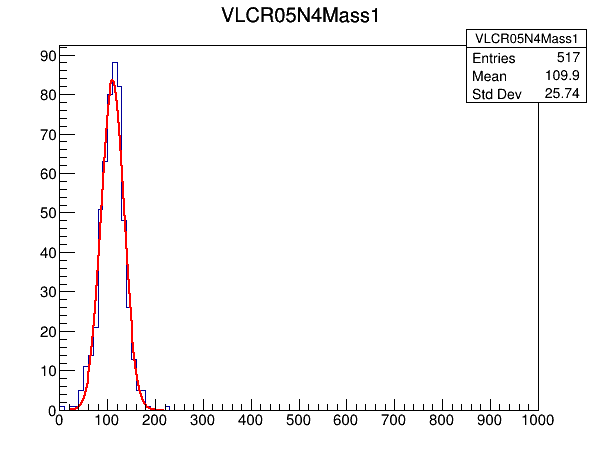
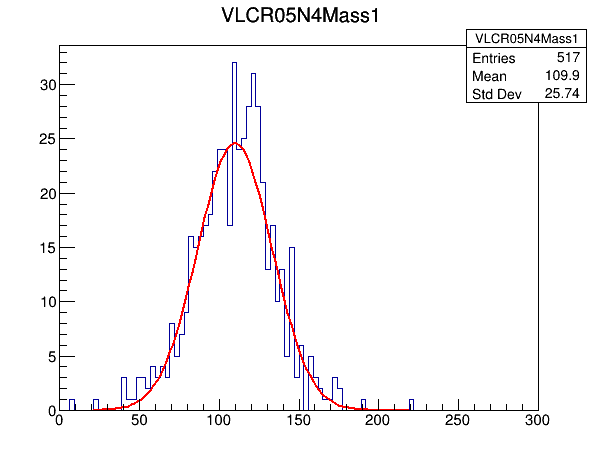
Update pairing up macro on anti-kt jet

diff --git a/Delphes/src/AnalyzeM.C b/Delphes/src/AnalyzeM.C
@@ -33,12 +33,20 @@ void AnalyzeM(const char *inputFile, const char *outputFile){
      TTree *tree_sig = (TTree*)file_sig->Get("Delphes");
      TTree *tree_output = new TTree("tree_output","Delphes");
 
+     cout << "Initiating..." <<endl; 
+
      TLeaf *VLCjetR05N4_size = tree_sig->GetLeaf("VLCjetR05N4_size");
      TLeaf *VLCjetR05N4_eta = tree_sig->GetLeaf("VLCjetR05N4.Eta");
      TLeaf *VLCjetR05N4_phi = tree_sig->GetLeaf("VLCjetR05N4.Phi");
      TLeaf *VLCjetR05N4_pt = tree_sig->GetLeaf("VLCjetR05N4.PT");
      TLeaf *VLCjetR05N4_mass = tree_sig->GetLeaf("VLCjetR05N4.Mass");
-
+     
+     TLeaf *AKTjet_size = tree_sig->GetLeaf("AKTjet_size");
+     TLeaf *AKTjet_eta = tree_sig->GetLeaf("AKTjet.Eta");
+     TLeaf *AKTjet_phi = tree_sig->GetLeaf("AKTjet.Phi");
+     TLeaf *AKTjet_pt = tree_sig->GetLeaf("AKTjet.PT");
+     TLeaf *AKTjet_mass = tree_sig->GetLeaf("AKTjet.Mass");
+ 
      TLeaf *GenJet_size = tree_sig->GetLeaf("GenJet_size");
      TLeaf *GenJet_eta = tree_sig->GetLeaf("GenJet.Eta");
      TLeaf *GenJet_phi = tree_sig->GetLeaf("GenJet.Phi");
@@ -47,11 +55,18 @@ void AnalyzeM(const char *inputFile, const char *outputFile){
 
      Int_t nEntries = tree_sig->GetEntries();
 
-     TH1D *VLCR05N4Mass1 = new TH1D("VLCR05N4Mass1", "VLCR05N4Mass1", 100 , 0, 1000); 
-     TH1D *VLCR05N4Mass2 = new TH1D("VLCR05N4Mass2", "VLCR05N4Mass2", 100 , 0, 1000); 
-     TH1D *GenMass2 = new TH1D("GenMass2", "GenMass2", 100 , 0, 1000); 
-     TH1D *VLCGenMass2Comp = new TH1D("VLCGenMass2Comp", "VLCGenMass2Comp", 100 , -3, 3); 
+     TH1D *VLCR05N4Mass1 = new TH1D("VLCR05N4Mass1", "VLCR05N4Mass1", 100 , 0, 300); 
+     TH1D *VLCR05N4Mass2 = new TH1D("VLCR05N4Mass2", "VLCR05N4Mass2", 100 , 0, 600); 
+     TH1D *GenVLCMass2 = new TH1D("GenVLCMass2", "GenVLCMass2", 100 , 0, 600); 
+     TH1D *VLCGenMass2Comp = new TH1D("VLCGenMass2Comp", "VLCGenMass2Comp", 100 , -1.5, 1.5); 
 
+     TH1D *AKTjetMass1 = new TH1D("AKTjetMass1", "AKTjetMass1", 100 , 0, 300); 
+     TH1D *AKTjetMass2 = new TH1D("AKTjetMass2", "AKTjetMass2", 100 , 0, 600); 
+     TH1D *GenAKTMass2 = new TH1D("GenAKTMass2", "GenAKTMass2", 100 , 0, 600); 
+     TH1D *AKTGenMass2Comp = new TH1D("AKTGenMass2Comp", "AKTGenMass2Comp", 100 , -1.5, 1.5); 
+     
+     TH1D *GenUncutMass2 = new TH1D("GenUncutMass2", "GenUncutMass2", 100 , 0, 600); 
+ 
      Double_t VLC1eta;
      Double_t VLC1phi;
      Double_t VLC1pt;
@@ -61,6 +76,17 @@ void AnalyzeM(const char *inputFile, const char *outputFile){
      Double_t VLC2pt;
      Double_t VLC2mass;
      Double_t VLCR05N4pairmass;
+  
+     Double_t AKT1eta;
+     Double_t AKT1phi;
+     Double_t AKT1pt;
+     Double_t AKT1mass;
+     Double_t AKT2eta;
+     Double_t AKT2phi;
+     Double_t AKT2pt;
+     Double_t AKT2mass;
+     Double_t AKTjetpairmass;
+         
      Double_t Gen1eta;
      Double_t Gen1phi;
      Double_t Gen2eta;
@@ -75,12 +101,16 @@ void AnalyzeM(const char *inputFile, const char *outputFile){
      Int_t pair2jet1entry;
      Int_t pair2jet2entry;
 
+     cout << "Running Pairing up Algo..." << endl;
+
      for(Long64_t entry=0; entry < nEntries; entry++){
 	 tree_sig->GetEntry(entry);
 	 tree_output->GetEntry(entry);
 	 VLCjetR05N4_size->GetBranch()->GetEntry(entry);
-         
+         AKTjet_size->GetBranch()->GetEntry(entry);
+
 	 Int_t nVLCjet = VLCjetR05N4_size->GetValue();
+	 Int_t nAKTjet = AKTjet_size->GetValue();
 	 Int_t nGenJet = GenJet_size->GetValue();
 
 	 VLCjetR05N4_phi->GetBranch()->GetEntry(entry);
@@ -88,14 +118,22 @@ void AnalyzeM(const char *inputFile, const char *outputFile){
 	 VLCjetR05N4_pt->GetBranch()->GetEntry(entry);
 	 VLCjetR05N4_mass->GetBranch()->GetEntry(entry);
 
+	 AKTjet_phi->GetBranch()->GetEntry(entry);
+	 AKTjet_phi->GetBranch()->GetEntry(entry);
+	 AKTjet_pt->GetBranch()->GetEntry(entry);
+	 AKTjet_mass->GetBranch()->GetEntry(entry);
+
 	 GenJet_eta->GetBranch()->GetEntry(entry);
 	 GenJet_phi->GetBranch()->GetEntry(entry);
 	 GenJet_pt->GetBranch()->GetEntry(entry);
 	 GenJet_mass->GetBranch()->GetEntry(entry);
 
 	 Double_t VLCR05N4pair1Mass = 0;
-	 Double_t VLCR05N4subpairmass = 0;
-
+	 Double_t VLCR05N4pair2Mass = 0;
+         
+	 Double_t AKTjetpair1Mass = 0;
+	 Double_t AKTjetpair2Mass = 0;
+//Pairing up Valencia Jets
 	 for(Int_t vlc1entry=0; vlc1entry < nVLCjet; vlc1entry++){
 	     for(Int_t vlc2entry=vlc1entry+1; vlc2entry < nVLCjet; vlc2entry++){
 		 VLC1eta = VLCjetR05N4_eta->GetValue(vlc1entry);
@@ -108,13 +146,13 @@ void AnalyzeM(const char *inputFile, const char *outputFile){
          	 VLC2mass = VLCjetR05N4_mass->GetValue(vlc2entry);
 		 VLCR05N4pairmass = 0;
 
-                 TLorentzVector h1;
-                 TLorentzVector jet1;
-                 TLorentzVector jet2;
-		 jet1.SetPtEtaPhiM(VLC1pt, VLC1eta, VLC1phi,VLC1mass);
-		 jet2.SetPtEtaPhiM(VLC2pt, VLC2eta, VLC2phi,VLC1mass);
-		 h1=jet1+jet2;
-		 VLCR05N4pairmass = h1.Mag();
+                 TLorentzVector VLCh1;
+                 TLorentzVector VLCjet1;
+                 TLorentzVector VLCjet2;
+		 VLCjet1.SetPtEtaPhiM(VLC1pt, VLC1eta, VLC1phi,VLC1mass);
+		 VLCjet2.SetPtEtaPhiM(VLC2pt, VLC2eta, VLC2phi,VLC1mass);
+		 VLCh1=VLCjet1+VLCjet2;
+		 VLCR05N4pairmass = VLCh1.Mag();
 		 
 		 if(abs(125 - VLCR05N4pairmass) < abs(125 -VLCR05N4pair1Mass)){
 		     VLCR05N4pair1Mass = VLCR05N4pairmass;
@@ -131,7 +169,7 @@ void AnalyzeM(const char *inputFile, const char *outputFile){
 		 break;
 	     }
 	 }
-         for(Int_t vlcentry=pair2jet1entry+1; vlcentry < nVLCjet; vlcentry++){
+         for(Int_t vlcentry=0; vlcentry < nVLCjet; vlcentry++){
 	     if(((vlcentry!=pair1jet1entry) and (vlcentry!=pair1jet2entry)) and (vlcentry!=pair2jet1entry)){
 	         pair2jet2entry = vlcentry;	     
 	     }
@@ -152,7 +190,7 @@ void AnalyzeM(const char *inputFile, const char *outputFile){
 
 	 Int_t jet1entry;
 	 Int_t jet2entry;
-
+//Truth matching for Valencia jets
 	 for(Int_t gen1entry=0; gen1entry < nGenJet; gen1entry++){
   	     Gen1eta = GenJet_eta->GetValue(gen1entry);
 	     Gen1phi = GenJet_phi->GetValue(gen1entry);
@@ -184,16 +222,15 @@ void AnalyzeM(const char *inputFile, const char *outputFile){
 	     }
          }
 	 
-         Double_t VLCR05N4pair2Mass = 0;
-         TLorentzVector h2;
-         TLorentzVector jet1;
-         TLorentzVector jet2;
- 	 jet1.SetPtEtaPhiM(VLC1pt, VLC1eta, VLC1phi,VLC1mass);
-	 jet2.SetPtEtaPhiM(VLC2pt, VLC2eta, VLC2phi,VLC2mass);
-	 h2=jet1+jet2;
-	 VLCR05N4pair2Mass = h2.Mag();
+         //Double_t VLCR05N4pair2Mass = 0;
+         TLorentzVector VLCh2;
+         TLorentzVector VLCjet1;
+         TLorentzVector VLCjet2;
+ 	 VLCjet1.SetPtEtaPhiM(VLC1pt, VLC1eta, VLC1phi,VLC1mass);
+	 VLCjet2.SetPtEtaPhiM(VLC2pt, VLC2eta, VLC2phi,VLC2mass);
+	 VLCh2=VLCjet1+VLCjet2;
+	 VLCR05N4pair2Mass = VLCh2.Mag();
          
-	 
 	 Gen1eta = GenJet_eta->GetValue(jet1entry);
          Gen1phi = GenJet_phi->GetValue(jet1entry);
          Gen1pt = GenJet_pt->GetValue(jet1entry);
@@ -212,34 +249,212 @@ void AnalyzeM(const char *inputFile, const char *outputFile){
 	 Genh2=GenJet1+GenJet2;
 	 GenJetMass = Genh2.Mag();
          Double_t VLCGendiff = (VLCR05N4pair2Mass-GenJetMass)/GenJetMass;
-
-
+         
 	 
-         if(VLC1flag==true and VLC2flag==true){
+	 if (VLC1flag==true and VLC2flag==true){
 	     VLCR05N4Mass1->Fill(VLCR05N4pair1Mass);
              VLCR05N4Mass2->Fill(VLCR05N4pair2Mass);
-	     GenMass2->Fill(GenJetMass);
+	     GenVLCMass2->Fill(GenJetMass);
 	     VLCGenMass2Comp->Fill(VLCGendiff);
 
-	 } else {
+	 } /*else {
 	     cout << "the second jet pair in the "<<entry<< "th event failed check."<<endl;	 
+         }*/
+
+	 if (nAKTjet == 4) {
+             //Pairing up leading anti-KT jet pair
+	     for(Int_t akt1entry=0; akt1entry < nAKTjet; akt1entry++){
+	         for(Int_t akt2entry=akt1entry+1; akt2entry < nAKTjet; akt2entry++){
+		     AKT1eta = AKTjet_eta->GetValue(akt1entry);
+         	     AKT1phi = AKTjet_phi->GetValue(akt1entry);
+         	     AKT1pt = AKTjet_pt->GetValue(akt1entry);
+         	     AKT1mass = AKTjet_mass->GetValue(akt1entry);
+                     AKT2eta = AKTjet_eta->GetValue(akt2entry);
+         	     AKT2phi = AKTjet_phi->GetValue(akt2entry);
+         	     AKT2pt = AKTjet_pt->GetValue(akt2entry);
+         	     AKT2mass = AKTjet_mass->GetValue(akt2entry);
+		     AKTjetpairmass = 0;
+
+                     TLorentzVector AKTh1;
+                     TLorentzVector AKTjet1;
+                     TLorentzVector AKTjet2;
+		     AKTjet1.SetPtEtaPhiM(AKT1pt, AKT1eta, AKT1phi,AKT1mass);
+		     AKTjet2.SetPtEtaPhiM(AKT2pt, AKT2eta, AKT2phi,AKT1mass);
+		     AKTh1=AKTjet1+AKTjet2;
+		     AKTjetpairmass = AKTh1.Mag();
+		 
+		     if(abs(125 - AKTjetpairmass) < abs(125 -AKTjetpair1Mass)){
+		         AKTjetpair1Mass = AKTjetpairmass;
+		         pair1jet1entry = akt1entry;
+		         pair1jet2entry = akt2entry;
+
+		     }		 	 
+	         }  
+	     }
+                          //Pairing up sub-leading anti-KT jet pair
+	     for(Int_t akt1entry=0; akt1entry < nAKTjet; akt1entry++){
+	         if((akt1entry!=pair1jet1entry) and (akt1entry!=pair1jet2entry)){
+                     pair2jet1entry = akt1entry;
+		     for(Int_t akt2entry=0; akt2entry < nAKTjet; akt2entry++){
+		         if(((akt2entry!=pair1jet1entry) and (akt2entry!=pair1jet2entry)) and (akt2entry!=pair2jet1entry)){
+	                     pair2jet2entry = akt2entry;	     
+ 
+			     AKT1eta = AKTjet_eta->GetValue(akt1entry);
+         	             AKT1phi = AKTjet_phi->GetValue(akt1entry);
+         	             AKT1pt = AKTjet_pt->GetValue(akt1entry);
+         	             AKT1mass = AKTjet_mass->GetValue(akt1entry);
+                             AKT2eta = AKTjet_eta->GetValue(akt2entry);
+         	             AKT2phi = AKTjet_phi->GetValue(akt2entry);
+         	             AKT2pt = AKTjet_pt->GetValue(akt2entry);
+         	             AKT2mass = AKTjet_mass->GetValue(akt2entry);
+		             AKTjetpairmass = 0;
+
+                             TLorentzVector AKTh2;
+                             TLorentzVector AKTjet1;
+                             TLorentzVector AKTjet2;
+		             AKTjet1.SetPtEtaPhiM(AKT1pt, AKT1eta, AKT1phi,AKT1mass);
+		             AKTjet2.SetPtEtaPhiM(AKT2pt, AKT2eta, AKT2phi,AKT1mass);
+		             AKTh2=AKTjet1+AKTjet2;
+		             AKTjetpairmass = AKTh2.Mag();
+		 
+		             if(abs(125 - AKTjetpairmass) < abs(125 -AKTjetpair2Mass)){
+		                 AKTjetpair2Mass = AKTjetpairmass;
+		                 pair2jet1entry = akt1entry;
+		                 pair2jet2entry = akt2entry;
+		             }
+	                 }  
+	             }        
+	         }
+	     }
+             AKT1eta = AKTjet_eta->GetValue(pair2jet1entry);
+             AKT1phi = AKTjet_phi->GetValue(pair2jet1entry);
+             AKT1pt = AKTjet_pt->GetValue(pair2jet1entry);
+             AKT1mass = AKTjet_mass->GetValue(pair2jet1entry);
+             AKT2eta = AKTjet_eta->GetValue(pair2jet2entry);
+             AKT2phi = AKTjet_phi->GetValue(pair2jet2entry);
+             AKT2pt = AKTjet_pt->GetValue(pair2jet2entry);
+             AKT2mass = AKTjet_mass->GetValue(pair2jet2entry);
+
+	     bool AKT1flag = false;
+	     bool AKT2flag = false;
+             Float_t jet1DeltaR = 100;
+             Float_t jet2DeltaR = 100;
+
+	     Int_t jet1entry;
+	     Int_t jet2entry;
+             //Truth matching for anti-KT jets
+	     for(Int_t gen1entry=0; gen1entry < nGenJet; gen1entry++){
+  	         Gen1eta = GenJet_eta->GetValue(gen1entry);
+	         Gen1phi = GenJet_phi->GetValue(gen1entry);
+	         Float_t jet1DeltaRtmp = TMath::Sqrt(pow((AKT1eta-Gen1eta),2)+pow((AKT1phi-Gen1phi),2));
+	         if(jet1DeltaRtmp < jet1DeltaR){
+	             jet1DeltaR = jet1DeltaRtmp;
+		     jet1entry = gen1entry;
+		     if (jet1DeltaR < 0.5){
+		         if (abs(Gen1eta) < 2.25){
+		             AKT1flag = true;
+		         }
+		     }
+	         }  
+             }
+             for(Int_t gen2entry=0; gen2entry < nGenJet; gen2entry++){
+  	         Gen2eta = GenJet_eta->GetValue(gen2entry);
+	         Gen2phi = GenJet_phi->GetValue(gen2entry);
+	         Float_t jet2DeltaRtmp = TMath::Sqrt(pow((AKT2eta-Gen2eta),2)+pow((AKT2phi-Gen2phi),2));
+	         if (gen2entry != jet1entry){
+                     if(jet2DeltaRtmp < jet2DeltaR){
+	                 jet2DeltaR = jet2DeltaRtmp;
+		         jet2entry = gen2entry;
+                         if (jet2DeltaR < 0.5){
+		             if (abs(Gen2eta) < 2.25){
+		                 AKT2flag = true;
+			     }
+		         }
+	             }
+	         }
+             }
+	 
+             //Double_t VLCR05N4pair2Mass = 0;
+             TLorentzVector AKTh2;
+             TLorentzVector AKTjet1;
+             TLorentzVector AKTjet2;
+ 	     AKTjet1.SetPtEtaPhiM(AKT1pt, AKT1eta, AKT1phi,AKT1mass);
+	     AKTjet2.SetPtEtaPhiM(AKT2pt, AKT2eta, AKT2phi,AKT2mass);
+	     AKTh2=AKTjet1+AKTjet2;
+	     AKTjetpair2Mass = AKTh2.Mag();
+	 
+             Gen1eta = GenJet_eta->GetValue(jet1entry);
+             Gen1phi = GenJet_phi->GetValue(jet1entry);
+             Gen1pt = GenJet_pt->GetValue(jet1entry);
+             Gen1mass = GenJet_mass->GetValue(jet1entry);
+             Gen2eta = GenJet_eta->GetValue(jet2entry);
+             Gen2phi = GenJet_phi->GetValue(jet2entry);
+             Gen2pt = GenJet_pt->GetValue(jet2entry);
+             Gen2mass = GenJet_mass->GetValue(jet2entry);
+         
+	     //Double_t GenJetMass = 0;
+             //TLorentzVector Genh2;
+             //TLorentzVector GenJet1;
+             //TLorentzVector GenJet2;
+ 	     GenJet1.SetPtEtaPhiM(Gen1pt, Gen1eta, Gen1phi,Gen1mass);
+	     GenJet2.SetPtEtaPhiM(Gen2pt, Gen2eta, Gen2phi,Gen2mass);
+	     Genh2=GenJet1+GenJet2;
+	     GenJetMass = Genh2.Mag();
+             Double_t AKTGendiff = (AKTjetpair2Mass-GenJetMass)/GenJetMass;
+	 
+             if (AKT1flag==true and AKT2flag==true){
+	         AKTjetMass1->Fill(AKTjetpair1Mass);
+                 AKTjetMass2->Fill(AKTjetpair2Mass);
+		 GenAKTMass2->Fill(GenJetMass);
+	         AKTGenMass2Comp->Fill(AKTGendiff);
+	     } 
          }
+	 GenUncutMass2->Fill(GenJetMass);
      }
      TF1 *jetpair1gausfit = new TF1("jetpair1gausfit", "gaus",20,220);
      TF1 *jetpair2gausfit = new TF1("jetpair2gausfit", "gaus",0,200);
      
      TCanvas *mycanvas = new TCanvas("mycanvas","My Canvas",200,10,600,480);
+     cout <<endl<< "Run gaussian fit for the leading Valencia jet pair..."<<endl;
      VLCR05N4Mass1->Fit("jetpair1gausfit","R");
      mycanvas->SaveAs("VLCR05N4pair1Mass.png");
+     cout <<endl<< "Run gaussian fit for the sub-leading Valencia jet pair..."<<endl;
      VLCR05N4Mass2->Fit("jetpair2gausfit","R");
      mycanvas->SaveAs("VLCR05N4pair2Mass.png");
-     GenMass2->Fit("jetpair2gausfit","R");
-     mycanvas->SaveAs("GenMass2.png");
+     cout <<endl<< "Run gaussian fit for the sub-leading GenJet pair under selection of VLC..."<<endl;
+     GenVLCMass2->Fit("jetpair2gausfit","R");
+     mycanvas->SaveAs("GenVLCMass2.png");
+     cout <<endl<< "Run gaussian fit for the leading anti-KT jet pair..."<<endl;
+     AKTjetMass1->Fit("jetpair1gausfit","R");
+     mycanvas->SaveAs("AKTjetpair1Mass.png");
+     cout <<endl<< "Run gaussian fit for the sub-leading anti-KT jet pair..."<<endl;
+     AKTjetMass2->Fit("jetpair2gausfit","R");
+     mycanvas->SaveAs("AKTjetpair2Mass.png");
+     cout <<endl<< "Run gaussian fit for the sub-leading GenJet pair under selection of AKT..."<<endl;
+     GenAKTMass2->Fit("jetpair2gausfit","R");
+     mycanvas->SaveAs("GenAKTMass2.png");
+     cout <<endl<< "Run gaussian fit for the sub-leading GenJet pair (Uncut)..."<<endl;
+     GenUncutMass2->Fit("jetpair2gausfit","R");
+     mycanvas->SaveAs("GenUncutMass2.png");
+
+
+     VLCGenMass2Comp->Draw();
+     mycanvas->SaveAs("VLCGenMass2Comp.png");
+     AKTGenMass2Comp->Draw();
+     mycanvas->SaveAs("AKTGenMass2Comp.png");
+
+     cout <<endl<< "Output in TTree..."<<endl;
 
      VLCR05N4Mass1->Write();
      VLCR05N4Mass2->Write();
-     GenMass2->Write();
+     GenVLCMass2->Write();
      VLCGenMass2Comp->Write();
+     AKTjetMass1->Write();
+     AKTjetMass2->Write();
+     GenAKTMass2->Write();
+     AKTGenMass2Comp->Write();
+     GenUncutMass2->Write();
+
      tree_output->Write();
 
      output->Close();
